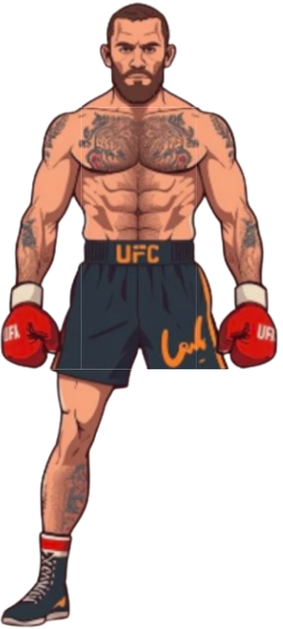
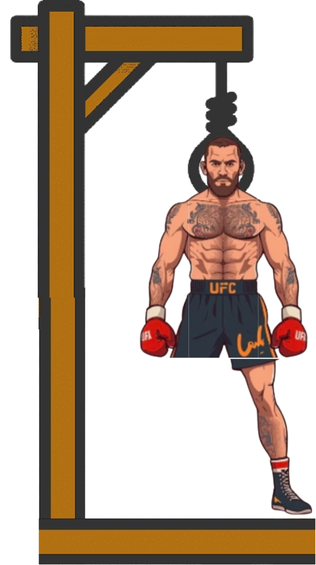
feat: Se agregaron las imagenes correctas y la funcion de dibujar el tablero

diff --git a/ProyectoAhorcado/web/Script/script.js b/ProyectoAhorcado/web/Script/script.js
@@ -1,5 +1,7 @@
 // las palabras que elegi para el ahorcado
 const palabras = ["carretera", "computadora", "bicicleta", "elefantes", "zanahoria"];
+let palabraSecreta = "";
+let tablero = [];
 
 // funcion que agarra una palabra random
 function seleccionarPalabra() {
@@ -7,4 +9,20 @@ function seleccionarPalabra() {
   return palabras[p];
 }
 
+// funcion que dibuja el tablero
+function mostrarTablero() {
+  const tablero = document.getElementById("tablero");
+  tablero.textContent = tablero.join(" ");
+}
 
+// funcion para que empezemos a jugar
+function iniciarJuego() {
+  palabraSecreta = seleccionarPalabra();
+  tablero = Array(palabraSecreta.length).fill("_");
+  document.getElementById("ahorcado-img").src = "Image/error0.png";
+  document.getElementById("mensaje").textContent = "";
+  mostrarTablero();
+}
+
+//cargar el juego
+window.addEventListener("load", iniciarJuego);
